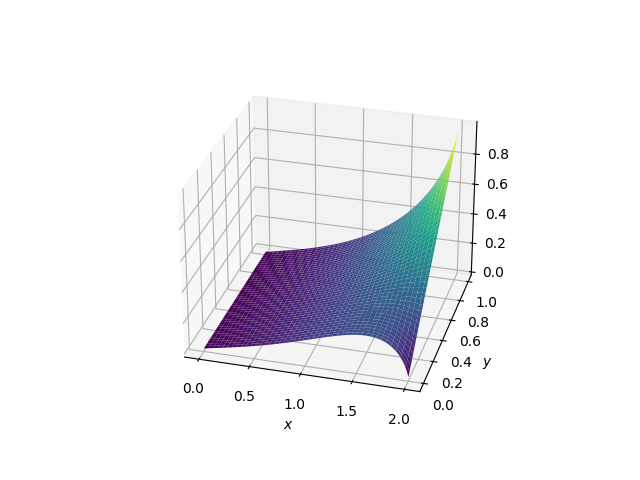
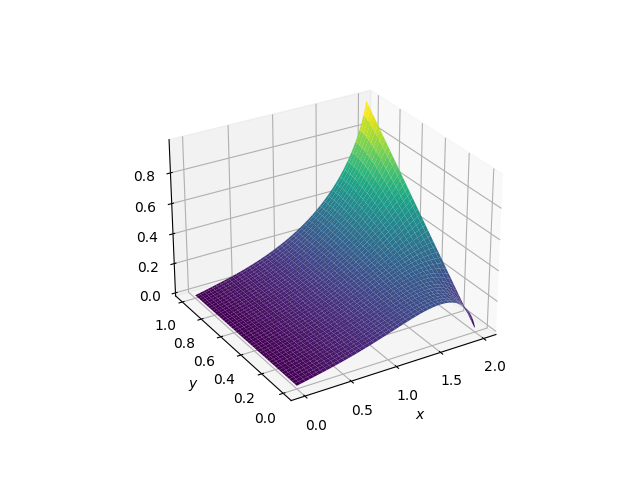
commit after file manegement

diff --git a/Exp6_2D_Laplace_Equation/Exp6.0_2DLaplaceEqution.py b/Exp6_2D_Laplace_Equation/Exp6.0_2DLaplaceEqution.py
@@ -40,11 +40,11 @@ Y = np.transpose(Y)
 p[0, :] = 0 
 p[-1,:] = np.linspace(0, y_interval, y) # p(2, y) = y
 
-# ax = plt.axes(projection = "3d")
-# ax.plot_surface(X,Y,p,cmap=cm.viridis)
-# ax.set_xlabel('$x$')
-# ax.set_ylabel('$y$');
-# plt.show()
+ax = plt.axes(projection = "3d")
+ax.plot_surface(X,Y,p,cmap=cm.viridis)
+ax.set_xlabel('$x$')
+ax.set_ylabel('$y$');
+plt.show()
 
 # Iteration
 p_next = p.copy()
